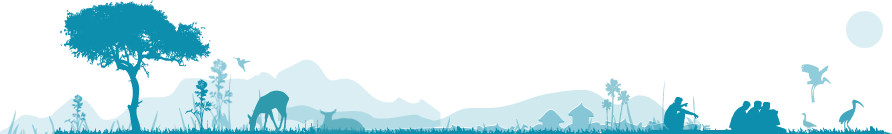
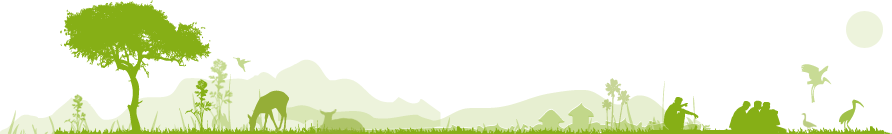
small refactoring

Changed region(s): [[0.0, 0.0, 1.0, 1.0], [0.8778, 0.4776, 0.9383, 0.6567], [0.9081, 0.6866, 0.9383, 0.7463]]

diff --git a/static/public/js/components/navigation.js b/static/public/js/components/navigation.js
@@ -7,19 +7,19 @@ class NavigationBar extends React.Component {
             <nav>
                 <ul className="cp-nav-menu">
                     <li className="cp-nav-link-wrapper">
-                        <NavLink to='/' className="cp-nav-link" activeClassName="cp-nav-link-active" exact>Home</NavLink>
+                        <NavLink to='/' className="cp-nav-link" activeClassName="cp-nav-link-active" exact><i className="fa fa-home" aria-hidden="true"></i> Home</NavLink>
                     </li>
                     <li className="cp-nav-link-wrapper">
-                        <NavLink to='/gallery' className="cp-nav-link" activeClassName="cp-nav-link-active" exact>Gallery</NavLink>
+                        <NavLink to='/gallery' className="cp-nav-link" activeClassName="cp-nav-link-active" exact><i className="fa fa-picture-o" aria-hidden="true"></i> Gallery</NavLink>
                     </li>
                     <li className="cp-nav-link-wrapper">
-                        <NavLink to='/photo' className="cp-nav-link" activeClassName="cp-nav-link-active" exact>Photo</NavLink>
+                        <NavLink to='/photo' className="cp-nav-link" activeClassName="cp-nav-link-active" exact><i className="fa fa-camera" aria-hidden="true"></i> Photo</NavLink>
                     </li>
                     <li className="cp-nav-link-wrapper">
-                        <NavLink to='/music' className="cp-nav-link" activeClassName="cp-nav-link-active" exact>Music</NavLink>
+                        <NavLink to='/music' className="cp-nav-link" activeClassName="cp-nav-link-active" exact><i className="fa fa-music" aria-hidden="true"></i> Music</NavLink>
                     </li>
                     <li className="cp-nav-link-wrapper cp-nav-link-signup">
-                        <NavLink to='/signup' className="cp-nav-link" activeClassName="cp-nav-link-active" exact>Sign up</NavLink>
+                        <NavLink to='/signup' className="cp-nav-link" activeClassName="cp-nav-link-active" exact><i className="fa fa-sign-in" aria-hidden="true"></i> Sign up</NavLink>
                     </li>
                 </ul>
             </nav>

diff --git a/static/public/js/components/signupForm.js b/static/public/js/components/signupForm.js
@@ -41,7 +41,7 @@ class SignupForm extends React.Component {
                     </div>
                     <div className="cp-signup-form-input-wrapper">
                         <div className="cp-signup-form-input-icon-wrapper">
-                            <i className="fa fa-user-circle cp-signup-form-input-icon" aria-hidden="true"></i>
+                            <i className="fa fa-envelope-open cp-signup-form-input-icon" aria-hidden="true"></i>
                         </div>
                         <input name="userEmail"
                                type="email"
@@ -53,7 +53,7 @@ class SignupForm extends React.Component {
                     </div>
                     <div className="cp-signup-form-input-wrapper">
                         <div className="cp-signup-form-input-icon-wrapper">
-                            <i className="fa fa-user-circle cp-signup-form-input-icon" aria-hidden="true"></i>
+                            <i className="fa fa-key cp-signup-form-input-icon" aria-hidden="true"></i>
                         </div>
                         <input name="userPassword"
                                type="password"
@@ -65,7 +65,7 @@ class SignupForm extends React.Component {
                     </div>
                     <div className="cp-signup-form-input-wrapper">
                         <div className="cp-signup-form-input-icon-wrapper">
-                            <i className="fa fa-user-circle cp-signup-form-input-icon" aria-hidden="true"></i>
+                            <i className="fa fa-key cp-signup-form-input-icon" aria-hidden="true"></i>
                         </div>
                         <input name="userPasswordConfirmation"
                                type="password"

diff --git a/static/public/scss/gallery.scss b/static/public/scss/gallery.scss
@@ -1,7 +1,7 @@
 // для всех стилей нужно писать префикс cp- от "Creative person"
 
 .cp-gallery {
-      
+
 }
 
 .cp-search-picture {
@@ -10,11 +10,20 @@
     margin-top: 20px;
 }
 
+.cp-pictures-list {
+    display: flex;
+    flex-direction: row;
+    flex-wrap: wrap;
+    justify-content: space-around;
+    align-content: space-around;
+}
+
 .cp-picture-item {
     text-align: center;
     background-color: #ffffff;
     width: 400px;
     margin: 30px;
+    cursor: pointer;
 }
 
 .cp-picture {
@@ -27,14 +36,6 @@
 
 .cp-picture-author {
 
-}
-
-.cp-pictures-list {
-    display: flex;
-    flex-direction: row;
-    flex-wrap: wrap;
-    justify-content: space-around;
-    align-content: space-around;
 }
 
 // modal form add picture

diff --git a/static/public/js/app.js b/static/public/js/app.js
@@ -1,13 +1,13 @@
 import React from 'react';
 import { Route } from 'react-router-dom';
 
-import NavigationBar from './components/navigation.js';
-import Footer from './components/footer.js';
-import Gallery from './gallery.js';
-import Home from './home.js';
-import Photo from './photo.js';
-import Music from './music.js';
-import Signup from './signup.js';
+import NavigationBar from './components/navigation';
+import Footer from './components/footer';
+import Gallery from './gallery';
+import Home from './home';
+import Photo from './photo';
+import Music from './music';
+import Signup from './signup';
 
 class App extends React.Component {
     render() {

diff --git a/static/public/scss/app.scss b/static/public/scss/app.scss
@@ -1,4 +1,4 @@
-$color-app: #0d8ead;
+$color-app: #86af16;
 
 .cp-nav-menu {
     list-style: none;
@@ -23,12 +23,12 @@ $color-app: #0d8ead;
     }
 
     .cp-nav-link-active {
-        background-color: #ff8f21;
+        background-color: #000000;
         color: white;
     }
 
     .cp-nav-link:hover {
-        background-color: #e8994b;
+        background-color: #2b3807;
     }
 
     .cp-nav-link-signup {
@@ -62,7 +62,7 @@ $color-app: #0d8ead;
     }
 
     .cp-footer-content-item {
-        background-color: #0a6f87;
+        background-color: #a6ca45;
         padding: 15px;
         margin-top: 10px;
     }

diff --git a/static/public/js/index.js b/static/public/js/index.js
@@ -5,7 +5,7 @@ import { composeWithDevTools } from 'redux-devtools-extension';
 import { createStore, applyMiddleware } from 'redux';
 import thunk from 'redux-thunk';
 
-import rootReducer from './rootReducer';
+import rootReducer from './reducers/rootReducer';
 import App from './app.js';
 
 // все стили

diff --git a/static/public/js/signup.js b/static/public/js/signup.js
@@ -1,7 +1,7 @@
 import React from 'react';
 import { connect } from 'react-redux';
 import { userSignupRequest } from './actions/signupActions';
-import SignupForm from './components/signupForm.js';
+import SignupForm from './components/signupForm';
 
 class Signup extends React.Component {
     render() {

diff --git a/static/public/js/music.js b/static/public/js/music.js
@@ -1,7 +1,7 @@
 import React from 'react';
 import { connect } from 'react-redux';
 
-import MusicList from './musicList.js';
+import MusicList from './components/musicList';
 import { getMusic } from './actions/musicActions';
 
 class Music extends React.Component {

diff --git a/static/public/js/home.js b/static/public/js/home.js
@@ -3,7 +3,7 @@ import React from 'react';
 class Home extends React.Component {
     render() {
         return (
-            <div>Home page <i className="fa fa-home" aria-hidden="true"></i></div>
+            <div>Home page</div>
         );
     }
 }

diff --git a/static/public/scss/signup.scss b/static/public/scss/signup.scss
@@ -22,7 +22,7 @@
             top: 3px;
             width: 39px;
             height: 39px;
-            background-color: #869fde;
+            background-color: #cccccc;
             display: flex;
 
             .cp-signup-form-input-icon {

diff --git a/static/public/js/reducers/rootReducer.js b/static/public/js/reducers/rootReducer.js
@@ -1,6 +1,6 @@
 import { combineReducers } from 'redux';
 
-import music from './reducers/music';
+import music from './music';
 
 export default combineReducers({
     music

diff --git a/static/public/scss/templates.scss b/static/public/scss/templates.scss
@@ -11,7 +11,6 @@ body {
 h1, h2, h3, h4, h5, h6 {
     font-family: century gothic;
     letter-spacing: 0.1em;
-    font-size: 1.0em;
 }
 
 input {
